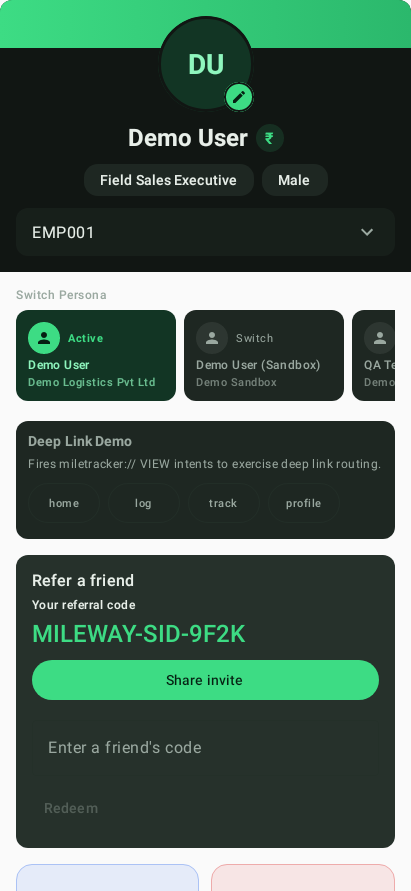
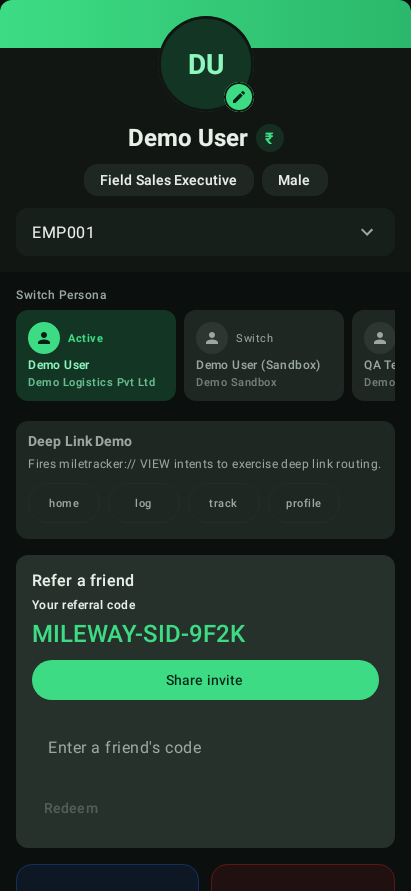
fix(ui): top-level Home & Profile tabs paint their own dark background
Home (HomeScreenContent) and Profile (ProfileScreen) are the two top-level
tabs hosted directly in the shell NavHost rather than via a feature
*HomeScreen Scaffold. Their root (a bare Box/LazyColumn) painted no
background and relied entirely on the host Scaffold's container colour. In
any context without that host -- e.g. the Roborazzi gallery, which wraps the
screen in MileTrackerTheme {} alone -- the scrollable body fell through to
the white canvas, so the screen rendered light (green header over a white
body with faded Quick Actions) while self-backgrounding screens like Track
Miles rendered dark in the same run.

Route both roots through MaterialTheme.colorScheme.background so they render
deep-dark under the Matrix default (and follow the active theme generally),
matching every Scaffold-hosted Level-1 screen. Re-recorded gallery baselines
for both confirm near-black bodies; Bug 5 dashboard layout and the green
brand header are preserved.

Changed region(s): [[0.0, 0.303, 1.0, 1.0], [0.9927, 0.0, 1.0, 0.0303], [0.0, 0.0, 0.0292, 0.0303]]

diff --git a/app/src/main/java/com/miletracker/ui/home/HomeScreen.kt b/app/src/main/java/com/miletracker/ui/home/HomeScreen.kt
@@ -1,5 +1,6 @@
 package com.miletracker.ui.home
 
+import androidx.compose.foundation.background
 import androidx.compose.foundation.layout.Arrangement
 import androidx.compose.foundation.layout.Box
 import androidx.compose.foundation.layout.Column
@@ -19,6 +20,7 @@ import androidx.compose.material.icons.Icons
 import androidx.compose.material.icons.filled.Bolt
 import androidx.compose.material.icons.filled.CardGiftcard
 import androidx.compose.material.icons.filled.Insights
+import androidx.compose.material3.MaterialTheme
 import androidx.compose.material3.SnackbarHost
 import androidx.compose.material3.SnackbarHostState
 import androidx.compose.runtime.Composable
@@ -108,7 +110,15 @@ internal fun HomeScreenContent(
     val illustrativeSnackbar: suspend () -> Unit = { snackbarState.showSnackbar("Detail view available in full version.") }
     val paymentsSnackbar: suspend () -> Unit = { snackbarState.showSnackbar("Payments require network in production.") }
 
-    Box(modifier = Modifier.fillMaxSize()) {
+    Box(
+        modifier = Modifier
+            .fillMaxSize()
+            // Top-level tab: own the background so the body renders on the theme surface
+            // (deep-dark under the Matrix default) instead of inheriting whatever the host
+            // happens to paint. Without this the scrollable body is transparent and falls
+            // through to the window/canvas colour.
+            .background(MaterialTheme.colorScheme.background),
+    ) {
         Column(
             modifier = Modifier
                 .fillMaxSize()

diff --git a/feature/profile/src/androidMain/kotlin/com/miletracker/feature/profile/ui/screens/ProfileScreen.kt b/feature/profile/src/androidMain/kotlin/com/miletracker/feature/profile/ui/screens/ProfileScreen.kt
@@ -118,7 +118,12 @@ fun ProfileScreen(
     val state by viewModel.uiState.collectAsStateWithLifecycle()
 
     LazyColumn(
-        modifier = Modifier.fillMaxSize(),
+        // Top-level tab: own the background so the body renders on the theme surface
+        // (deep-dark under the Matrix default) rather than falling through to the
+        // window/canvas colour when no host Scaffold paints behind it.
+        modifier = Modifier
+            .fillMaxSize()
+            .background(MaterialTheme.colorScheme.background),
         // Clearance for the floating bubble bar (content draws behind it).
         contentPadding = PaddingValues(bottom = 140.dp),
         verticalArrangement = Arrangement.spacedBy(DesignTokens.Spacing.l),